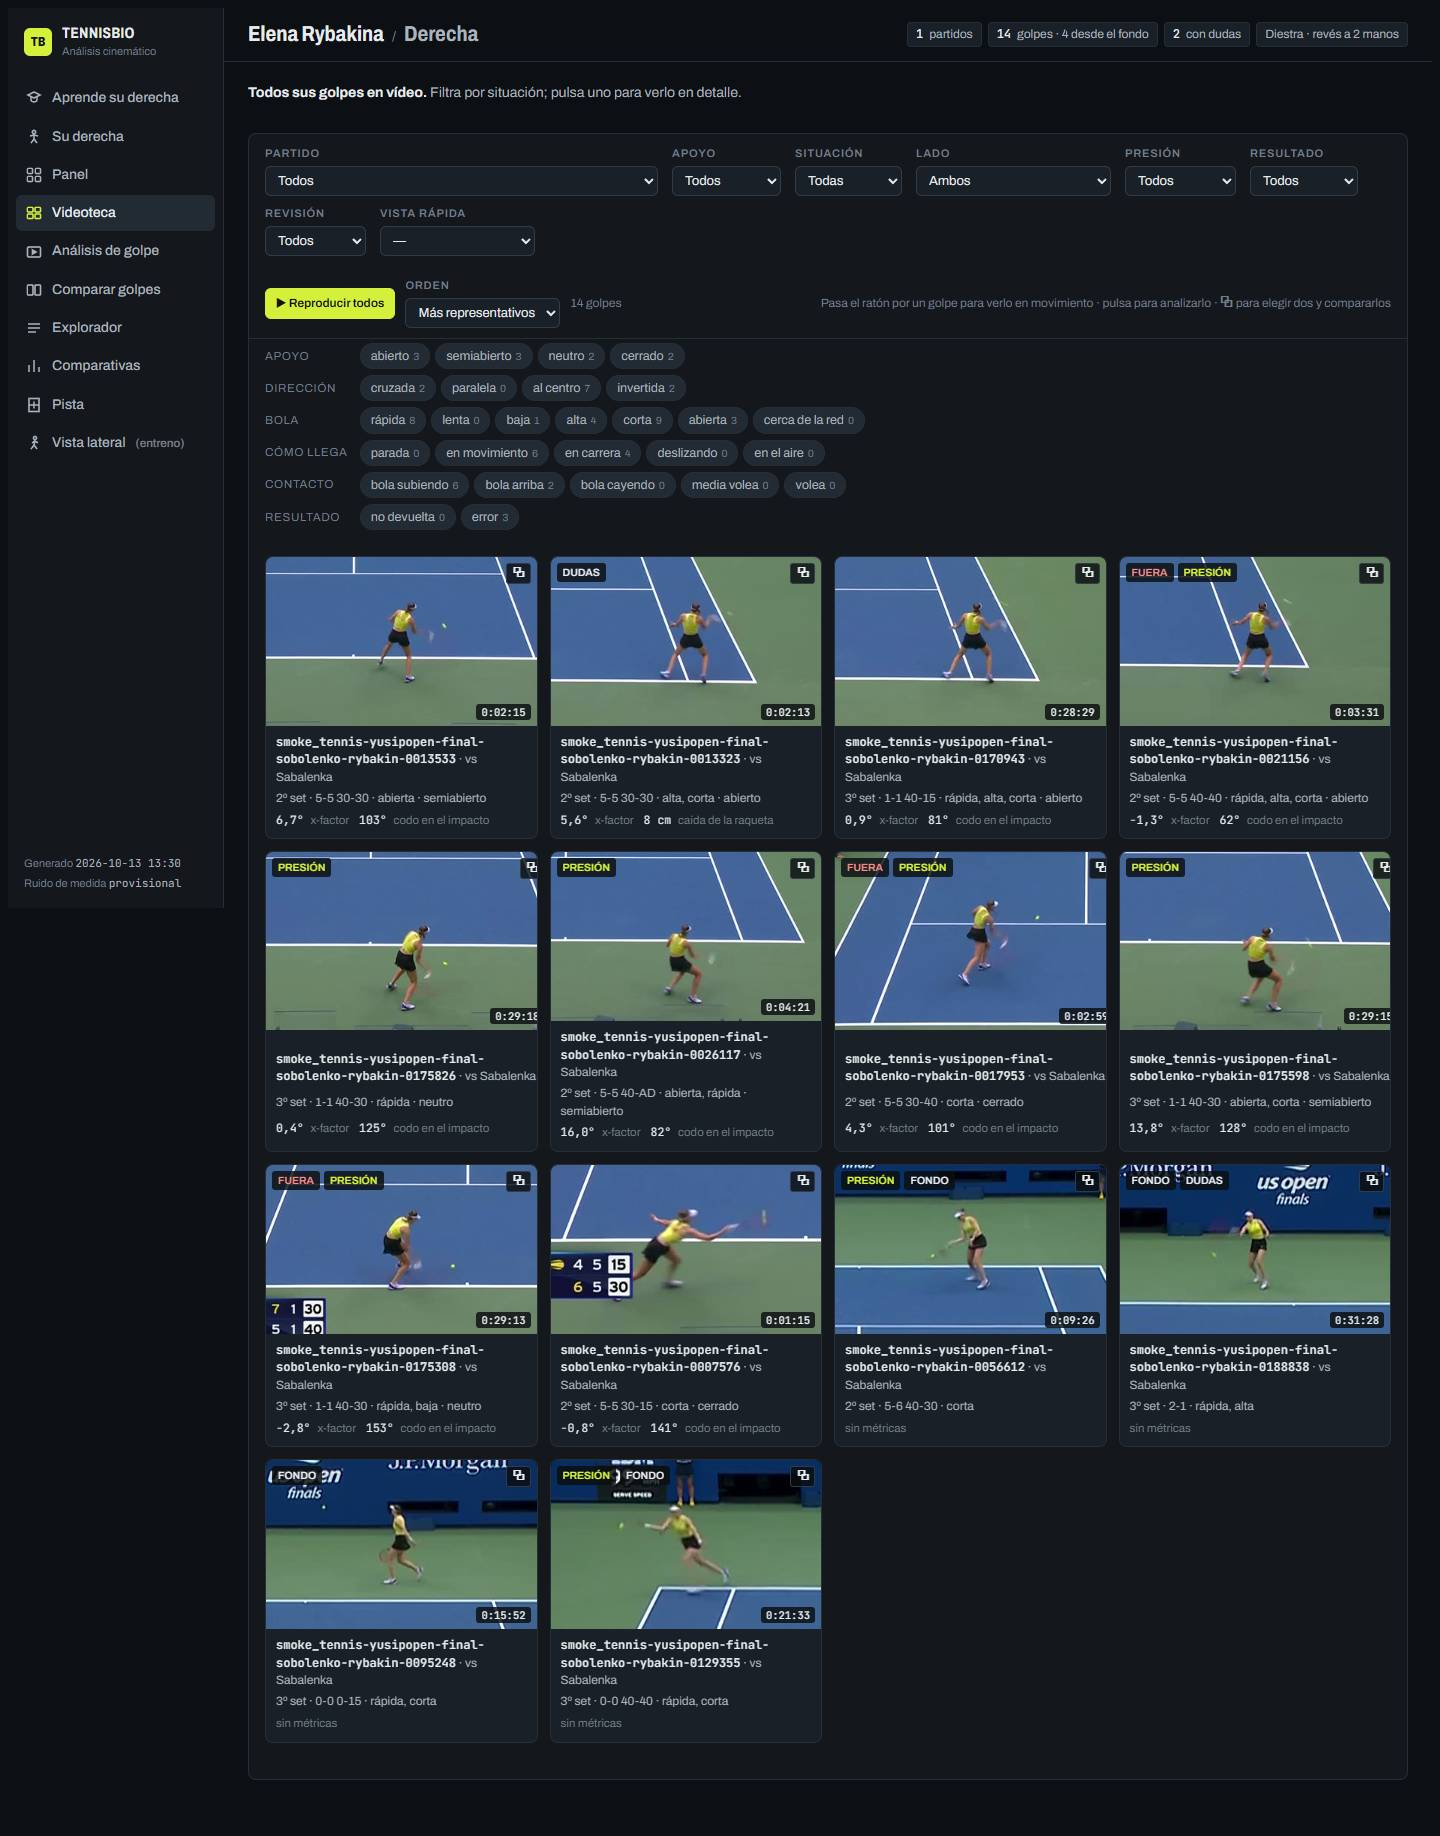
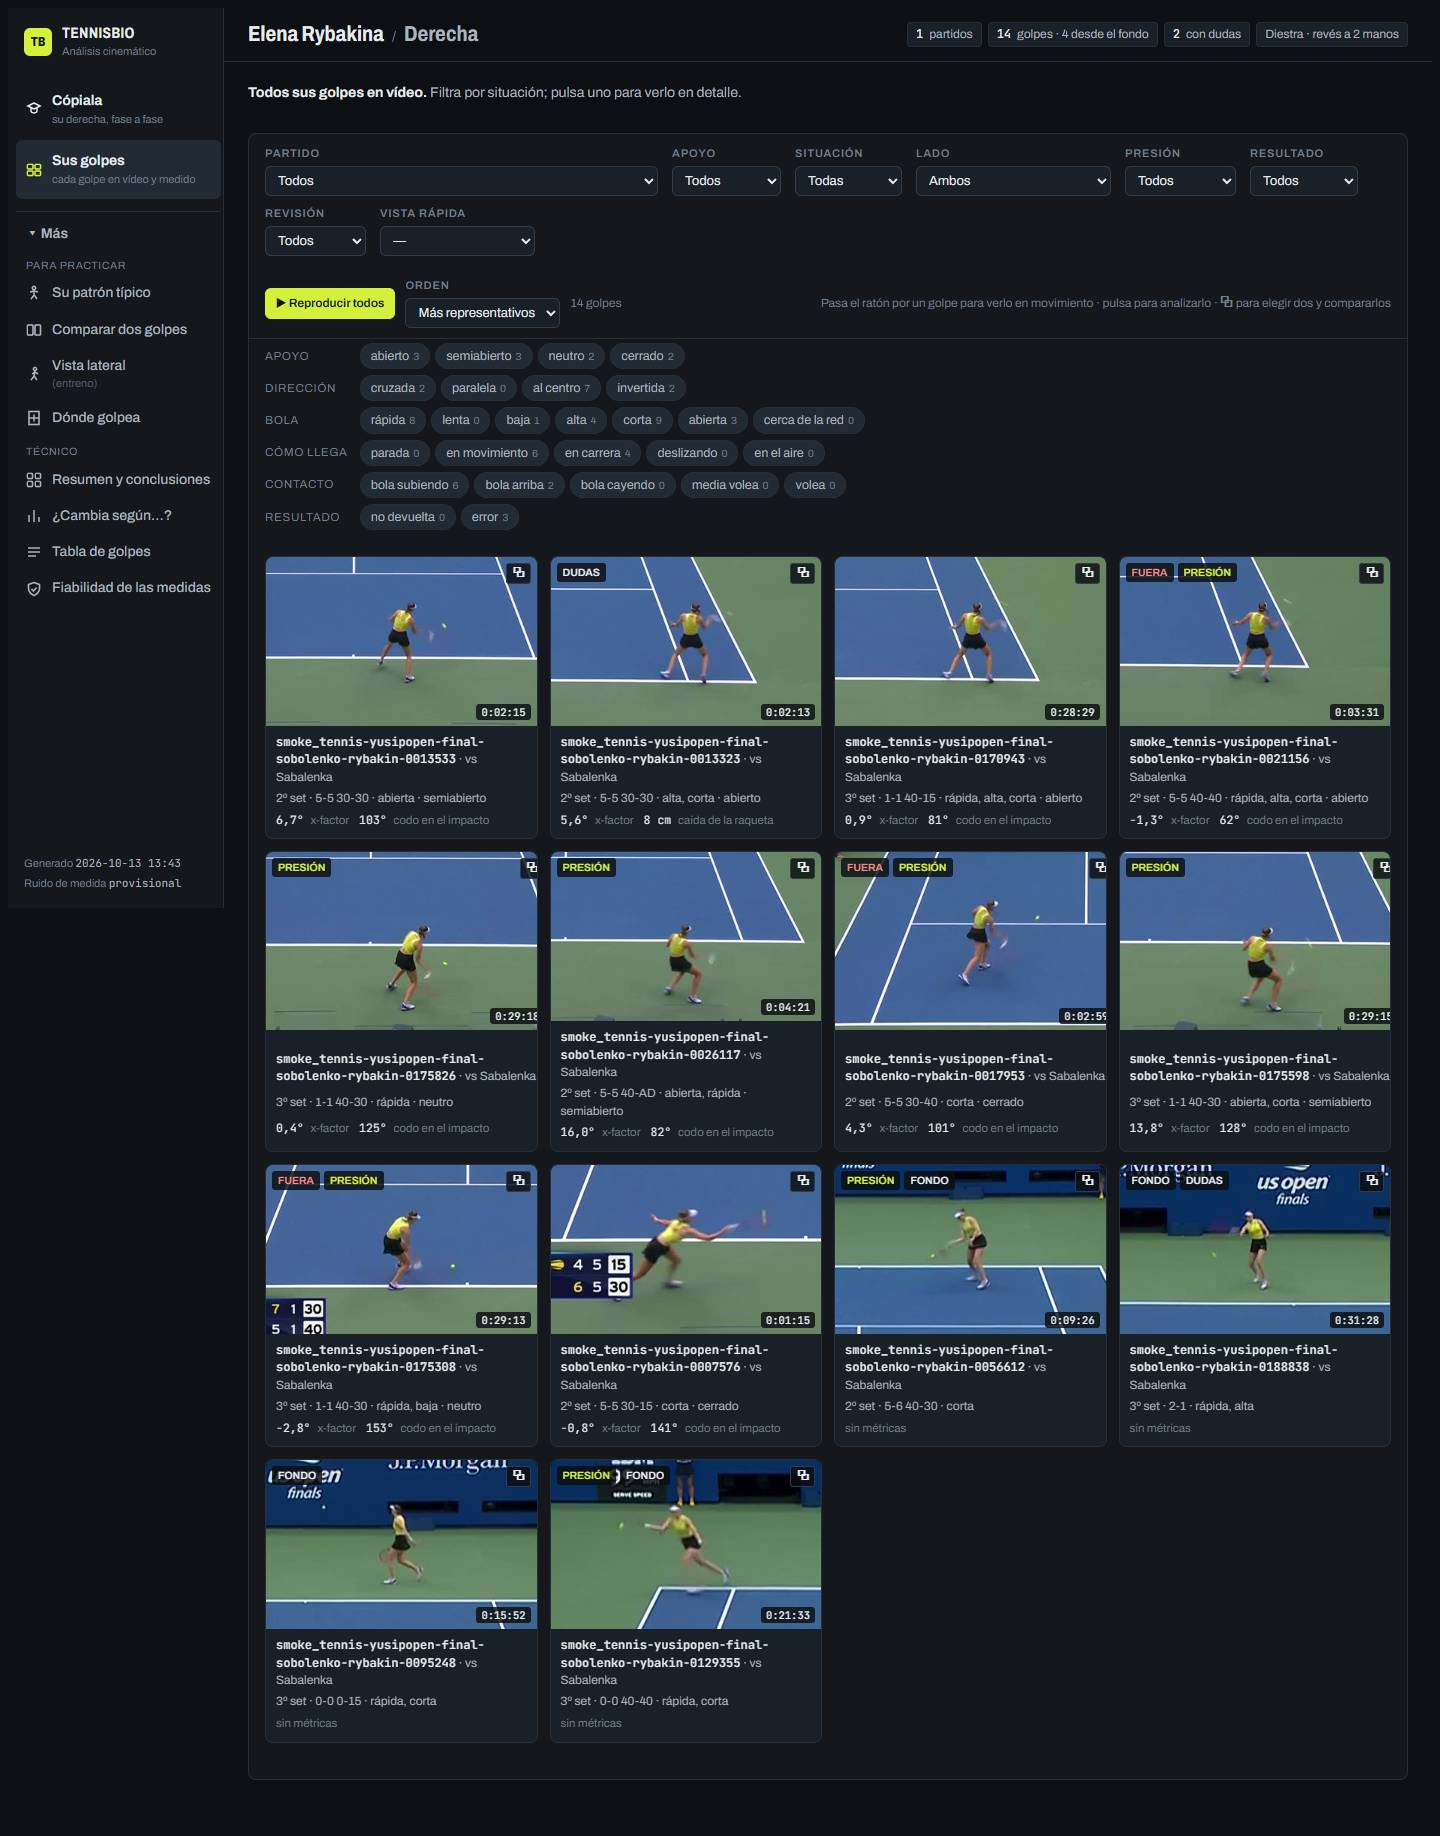
registros 2026-10-13T13:45:51

Changed region(s): [[0.0, 0.031, 0.1562, 0.3415]]

diff --git a/auditoria_prueba.md b/auditoria_prueba.md
@@ -1,6 +1,6 @@
 # Auditoría de requisitos (forehand)
 
-10 golpes del lado cercano. ✔ 184 cumplidos · ✘ 8 no cumplidos · … 186 sin golpes suficientes en esta ejecución · ! 17 avisos
+10 golpes del lado cercano. ✔ 185 cumplidos · ✘ 8 no cumplidos · … 186 sin golpes suficientes en esta ejecución · ! 17 avisos
 
 ## 1. Toda la taxonomía del golpe y todas sus variantes (situaciones)
 
@@ -184,17 +184,17 @@
 - ✔ **Cada golpe tiene su vídeo**: 10 de 10 golpes con vídeo
 - ✔ **Cada golpe tiene su esqueleto fotograma a fotograma**: 10 de 10
 - ✔ **El navegador puede reproducir los vídeos**: formatos: h264
-- ✔ **Pantalla «Aprende su derecha»**: 34650 caracteres de texto, 5 vídeos, 0 gráficos
-- ✔ **Pantalla «Su derecha»**: 5842 caracteres de texto, 5 vídeos, 8 gráficos
-- ✔ **Pantalla «Panel»**: 4508 caracteres de texto, 5 vídeos, 11 gráficos
-- ✔ **Pantalla «Videoteca»**: 3280 caracteres de texto, 5 vídeos, 0 gráficos
-- ✔ **Pantalla «Análisis de golpe»**: 6992 caracteres de texto, 6 vídeos, 28 gráficos
-- ✔ **Pantalla «Comparar golpes»**: 5220 caracteres de texto, 5 vídeos, 2 gráficos
-- ✔ **Pantalla «Explorador»**: 3230 caracteres de texto, 5 vídeos, 0 gráficos
-- ✔ **Pantalla «Comparativas»**: 2749 caracteres de texto, 5 vídeos, 0 gráficos; mensajes de vacío: ['Sin datos de x-factor en estos grupos.', 'Sin datos de rotación de hombros en estos grupos.', 'Sin datos de x-factor 3d en estos grupos.', 'Sin datos de rotación de hombros 3d en estos grupos.', 'Sin datos de descenso de cadera en estos grupos.', 'Sin datos de codo en el impacto en estos grupos.', 'Sin datos de brazo no dominante en el armado en estos grupos.', 'Sin datos de impacto lateral en estos grupos.']
-- ✔ **Pantalla «Pista»**: 480 caracteres de texto, 5 vídeos, 1 gráficos
-- ✔ **Pantalla «Vista lateral
-(entreno)»**: 6903 caracteres de texto, 5 vídeos, 0 gráficos
+- ✔ **Pantalla «Cópiala (Aprende su derecha)»**: 34694 caracteres de texto, 5 vídeos, 0 gráficos
+- ✔ **Pantalla «Su patrón típico (Su derecha)»**: 4203 caracteres de texto, 5 vídeos, 8 gráficos
+- ✔ **Pantalla «Resumen y conclusiones (Panel)»**: 4508 caracteres de texto, 5 vídeos, 11 gráficos
+- ✔ **Pantalla «Sus golpes (Videoteca)»**: 3280 caracteres de texto, 5 vídeos, 0 gráficos
+- ✔ **Pantalla «Análisis de golpe»**: 7004 caracteres de texto, 6 vídeos, 28 gráficos
+- ✔ **Pantalla «Comparar dos golpes»**: 5220 caracteres de texto, 5 vídeos, 2 gráficos
+- ✔ **Pantalla «Tabla de golpes (Explorador)»**: 3230 caracteres de texto, 5 vídeos, 0 gráficos
+- ✔ **Pantalla «¿Cambia según…? (Comparativas)»**: 1773 caracteres de texto, 5 vídeos, 0 gráficos; mensajes de vacío: ['', '', '', '', '', '', '', '']
+- ✔ **Pantalla «Dónde golpea (Pista)»**: 480 caracteres de texto, 5 vídeos, 1 gráficos
+- ✔ **Pantalla «Vista lateral (entreno)»**: 6903 caracteres de texto, 5 vídeos, 0 gráficos
+- ✔ **Pantalla «Fiabilidad de las medidas»**: 4094 caracteres de texto, 5 vídeos, 0 gráficos
 - ✔ **Reproducir: «Su derecha» → ▶ Ver sus golpes típicos**: el vídeo arranca y avanza
 - ✔ **Reproducir: Videoteca → ▶ Reproducir todos**: el vídeo arranca y avanza
 - ✔ **Reproducir: Análisis de golpe → ▶**: el vídeo arranca y avanza
@@ -315,7 +315,7 @@
 - ✘ **#64 Todos los tipos de desplazamiento, del split step a la recuperación, con cada tipo de paso; «hay que hacer la **: 10 comprobaciones: 1 falta, 2 pocos datos, 7 ok; la peor: «6. Matriz del usuario · Pasos cruzados» (se mide (100% de los golpes) pero el informe no lo enseña en ninguna pantalla)
 - ✘ **#72 El conocimiento del chat (modelo técnico, taxonomía, matriz) implementado en la web, no solo en documentos**: 154 comprobaciones: 1 falta, 88 pocos datos, 65 ok; la peor: «6. Matriz del usuario · Pasos cruzados» (se mide (100% de los golpes) pero el informe no lo enseña en ninguna pantalla)
 - ✘ **#88 Matriz §5 Pies (split, ajuste, cruzado, paso de ataque, recuperación)**: 8 comprobaciones: 1 falta, 1 pocos datos, 6 ok; la peor: «6. Matriz del usuario · Pasos cruzados» (se mide (100% de los golpes) pero el informe no lo enseña en ninguna pantalla)
-- ! **#9 Información, no tablas; profesional, «con sentido humano», nivel de las apps punteras**: sus comprobaciones se cumplen, pero sigue a medias (ver docs/peticiones_usuario.md); 10 comprobaciones: 10 ok
+- ! **#9 Información, no tablas; profesional, «con sentido humano», nivel de las apps punteras**: sus comprobaciones se cumplen, pero sigue a medias (ver docs/peticiones_usuario.md); 11 comprobaciones: 11 ok
 - ! **#10 Ver los cambios en la prueba rápida, sin 1 h**: sus comprobaciones se cumplen, pero sigue a medias (ver docs/peticiones_usuario.md); 11 comprobaciones: 11 ok
 - ! **#12 Validar cada medida con clips públicos anotados; el usuario no valida a mano**: sus comprobaciones se cumplen, pero sigue a medias (ver docs/peticiones_usuario.md); 1 comprobaciones: 1 ok
 - ! **#14 Rendimiento: un partido en horas, no días**: sus comprobaciones se cumplen, pero sigue a medias (ver docs/peticiones_usuario.md); 1 comprobaciones: 1 aviso; la peor: «Tiempo: smoke_tennis-yusipopen-final-sobolenko-rybakin» (153 min para 35 min de vídeo ≈ 15.3 h para un partido de 3,5 h (con las etapas medidas en su última ejecución))
@@ -324,7 +324,7 @@
 - ! **#29 Fase 0: entorno y fps reales, con YOLO**: 1 comprobaciones: 1 aviso; la peor: «Tiempo: smoke_tennis-yusipopen-final-sobolenko-rybakin» (153 min para 35 min de vídeo ≈ 15.3 h para un partido de 3,5 h (con las etapas medidas en su última ejecución))
 - ! **#45 Todo automático y completo: el usuario no revisa nada**: sus comprobaciones se cumplen, pero sigue a medias (ver docs/peticiones_usuario.md); 2 comprobaciones: 2 ok
 - ! **#55 Ver una bola cerca de la red y un apoyo cerrado con golpe paralelo**: sus comprobaciones se cumplen, pero sigue a medias (ver docs/peticiones_usuario.md); 1 comprobaciones: 1 ok
-- ! **#73 Revisar la web de arriba abajo para que aporte valor**: sus comprobaciones se cumplen, pero sigue a medias (ver docs/peticiones_usuario.md); 23 comprobaciones: 23 ok
+- ! **#73 Revisar la web de arriba abajo para que aporte valor**: sus comprobaciones se cumplen, pero sigue a medias (ver docs/peticiones_usuario.md); 24 comprobaciones: 24 ok
 - ! **#75 Velocidad: «10 golpes en 5 horas es absurdo»**: sus comprobaciones se cumplen, pero sigue a medias (ver docs/peticiones_usuario.md); 1 comprobaciones: 1 aviso; la peor: «Tiempo: smoke_tennis-yusipopen-final-sobolenko-rybakin» (153 min para 35 min de vídeo ≈ 15.3 h para un partido de 3,5 h (con las etapas medidas en su última ejecución))
 - ! **#76 «Un 50 % de golpes dudosos»**: sus comprobaciones se cumplen, pero sigue a medias (ver docs/peticiones_usuario.md); 1 comprobaciones: 1 ok
 - ! **#95 Matriz §12 Neuro y visión (latencia, mirada, EMG)**: sus comprobaciones se cumplen, pero sigue a medias (ver docs/peticiones_usuario.md); 3 comprobaciones: 3 ok
@@ -339,7 +339,7 @@
 - … **#8 Cuerdas y cara (suelo, valla lateral o trasera, ángulos, cierre muñeca–raqueta) en todas las fases. Obligatori**: 7 comprobaciones: 2 pocos datos, 5 ok; la peor: «4. Raqueta, swing y empuñadura · Cara de la raqueta al final del armado» (se mide (60% de los golpes); el informe lo enseñará con más golpes o más fiabilidad)
 - … **#13 Casos nominales, límite, esquina y error en fuentes, algoritmos, IA, procesado, rendimiento e informe**: no se comprueba en las salidas: en los tests del código (uv run pytest, pc-logs:pruebas.log), no en las salidas (estado: PARCIAL)
 - … **#16 Distinguir por contexto (derecha junto a la red o volea) y cubrir las medias voleas**: 2 comprobaciones: 2 pocos datos; la peor: «6. Matriz del usuario · Botepronto (media volea)» (se mide (80% de los golpes); el informe lo enseñará con más golpes o más fiabilidad)
-- … **#17 Una entrada que se entienda sola: «no entiendo nada ni cómo usarla»**: 8 comprobaciones: 1 pocos datos, 7 ok; la peor: «Tu ejemplo: derecha paralela, apoyo cerrado, parada, plana, lado de su derecha» (0 golpes exactos, 9 parecidos; 61 de 66 puntos con su valor medido)
+- … **#17 Una entrada que se entienda sola: «no entiendo nada ni cómo usarla»**: 9 comprobaciones: 1 pocos datos, 8 ok; la peor: «Tu ejemplo: derecha paralela, apoyo cerrado, parada, plana, lado de su derecha» (0 golpes exactos, 9 parecidos; 61 de 66 puntos con su valor medido)
 - … **#18 Herramienta Python cinemática 2D, 1 jugador y 1 golpe, parametrizable**: 1 comprobaciones: 1 pocos datos; la peor: «forehand: golpes analizados» (10 del lado cercano (con todo el detalle), 4 del lejano; con menos de 20 muchas situaciones no se pueden describir)
 - … **#21 Dos pasadas, barata y fina de ±1 s**: 1 comprobaciones: 1 pocos datos; la peor: «forehand: golpes analizados» (10 del lado cercano (con todo el detalle), 4 del lejano; con menos de 20 muchas situaciones no se pueden describir)
 - … **#22 Solo la cámara principal, sin repeticiones ni primeros planos**: 1 comprobaciones: 1 pocos datos; la peor: «forehand: golpes analizados» (10 del lado cercano (con todo el detalle), 4 del lejano; con menos de 20 muchas situaciones no se pueden describir)
@@ -394,20 +394,20 @@
 - ✔ **#41 Exportación: cómo se ven y se graban**: 1 comprobaciones: 1 ok
 - ✔ **#42 Un golpe no son 8 pantallazos: vídeo y más**: 11 comprobaciones: 11 ok
 - ✔ **#43 El PC no es servidor**: no se comprueba en las salidas: decisión de arquitectura (sin servidor) (estado: HECHO)
-- ✔ **#44 Sin vídeos del usuario, de entrenadores ni de otras jugadoras**: 11 comprobaciones: 11 ok
+- ✔ **#44 Sin vídeos del usuario, de entrenadores ni de otras jugadoras**: 12 comprobaciones: 12 ok
 - ✔ **#46 Sin PDF enorme y sin inventar datos**: 2 comprobaciones: 2 ok
 - ✔ **#49 No perder contexto ni sesión; registros automáticos**: no se comprueba en las salidas: registros subidos solos a pc-logs (estado: HECHO)
 - ✔ **#50 Progreso y monitorización visibles**: no se comprueba en las salidas: registros con fecha y duración en la terminal (estado: HECHO)
 - ✔ **#51 El código de la prueba es el de los casos reales**: no se comprueba en las salidas: el mismo código (clip_pipeline, stages) en la prueba y en los partidos (estado: HECHO)
-- ✔ **#52 Brave, no instalar Edge**: 10 comprobaciones: 10 ok
-- ✔ **#53 No pasar de 100 a 0: conservar lo anterior**: 10 comprobaciones: 10 ok
+- ✔ **#52 Brave, no instalar Edge**: 11 comprobaciones: 11 ok
+- ✔ **#53 No pasar de 100 a 0: conservar lo anterior**: 11 comprobaciones: 11 ok
 - ✔ **#54 Qué hace ella cuando la rival golpea, la bola cruza la red, bota y llega arriba**: 2 comprobaciones: 2 ok
 - ✔ **#56 Barras horizontales con la diferencia de altura de la cabeza**: 1 comprobaciones: 1 ok
-- ✔ **#57 Nada de gráficas de muchas líneas ni tablas sin frases**: 10 comprobaciones: 10 ok
+- ✔ **#57 Nada de gráficas de muchas líneas ni tablas sin frases**: 11 comprobaciones: 11 ok
 - ✔ **#58 La IA más moderna posible**: no se comprueba en las salidas: elección de modelos (RTMPose, YOLO11, TrackNetV3, RTMW3D) (estado: HECHO)
 - ✔ **#65 El play del vídeo funciona (no solo un fotograma)**: 11 comprobaciones: 11 ok
 - ✔ **#66 Fechas y duración en los registros**: no se comprueba en las salidas: registros con fecha y duración (comun.ps1), no una salida (estado: HECHO)
-- ✔ **#67 No borrar el trabajo hecho: lo complejo como extra**: 14 comprobaciones: 14 ok
+- ✔ **#67 No borrar el trabajo hecho: lo complejo como extra**: 15 comprobaciones: 15 ok
 - ✔ **#80 Encadenar solo la prueba y las comprobaciones; que Claude lo monitorice**: no se comprueba en las salidas: cadena de prueba, auditoría y subida a pc-logs (estado: HECHO)
 - ✔ **#81 Tamaño de la salida; comprobación sin gastar tokens**: no se comprueba en las salidas: tamanos.txt y auditoría en Python sin Claude (estado: HECHO)
 - ✔ **#82 Dónde se graban las salidas, qué va a git, qué se reutiliza**: no se comprueba en las salidas: salidas en C:\tenis\output, registros en pc-logs, caché por etapas (estado: HECHO)

diff --git a/revision_automatica.md b/revision_automatica.md
@@ -1,6 +1,6 @@
 # Revisión automática: FALLOS
 
-184 cumplidos · 8 no cumplidos · 186 sin golpes suficientes · 17 avisos (antes: 184 cumplidos, 8 no cumplidos)
+185 cumplidos · 8 no cumplidos · 186 sin golpes suficientes · 17 avisos (antes: 184 cumplidos, 8 no cumplidos)
 
 ## No cumplidos
 
@@ -12,3 +12,29 @@
 - **#64 Todos los tipos de desplazamiento, del split step a la recuperación, con cada tipo de paso; «hay que hacer la **: 10 comprobaciones: 1 falta, 2 pocos datos, 7 ok; la peor: «6. Matriz del usuario · Pasos cruzados» (se mide (100% de los golpes) pero el informe no lo enseña en ninguna pantalla)
 - **#72 El conocimiento del chat (modelo técnico, taxonomía, matriz) implementado en la web, no solo en documentos**: 154 comprobaciones: 1 falta, 88 pocos datos, 65 ok; la peor: «6. Matriz del usuario · Pasos cruzados» (se mide (100% de los golpes) pero el informe no lo enseña en ninguna pantalla)
 - **#88 Matriz §5 Pies (split, ajuste, cruzado, paso de ataque, recuperación)**: 8 comprobaciones: 1 falta, 1 pocos datos, 6 ok; la peor: «6. Matriz del usuario · Pasos cruzados» (se mide (100% de los golpes) pero el informe no lo enseña en ninguna pantalla)
+
+## Comprobaciones nuevas
+
+- Pantalla «Cópiala (Aprende su derecha)»: ok (34694 caracteres de texto, 5 vídeos, 0 gráficos)
+- Pantalla «Su patrón típico (Su derecha)»: ok (4203 caracteres de texto, 5 vídeos, 8 gráficos)
+- Pantalla «Resumen y conclusiones (Panel)»: ok (4508 caracteres de texto, 5 vídeos, 11 gráficos)
+- Pantalla «Sus golpes (Videoteca)»: ok (3280 caracteres de texto, 5 vídeos, 0 gráficos)
+- Pantalla «Comparar dos golpes»: ok (5220 caracteres de texto, 5 vídeos, 2 gráficos)
+- Pantalla «Tabla de golpes (Explorador)»: ok (3230 caracteres de texto, 5 vídeos, 0 gráficos)
+- Pantalla «¿Cambia según…? (Comparativas)»: ok (1773 caracteres de texto, 5 vídeos, 0 gráficos; mensajes de vacío: ['', '', '', '', '', '', '', ''])
+- Pantalla «Dónde golpea (Pista)»: ok (480 caracteres de texto, 5 vídeos, 1 gráficos)
+- Pantalla «Vista lateral (entreno)»: ok (6903 caracteres de texto, 5 vídeos, 0 gráficos)
+- Pantalla «Fiabilidad de las medidas»: ok (4094 caracteres de texto, 5 vídeos, 0 gráficos)
+
+## Comprobaciones que ya no aparecen
+
+- Pantalla «Aprende su derecha»
+- Pantalla «Su derecha»
+- Pantalla «Panel»
+- Pantalla «Videoteca»
+- Pantalla «Comparar golpes»
+- Pantalla «Explorador»
+- Pantalla «Comparativas»
+- Pantalla «Pista»
+- Pantalla «Vista lateral
+(entreno)»
